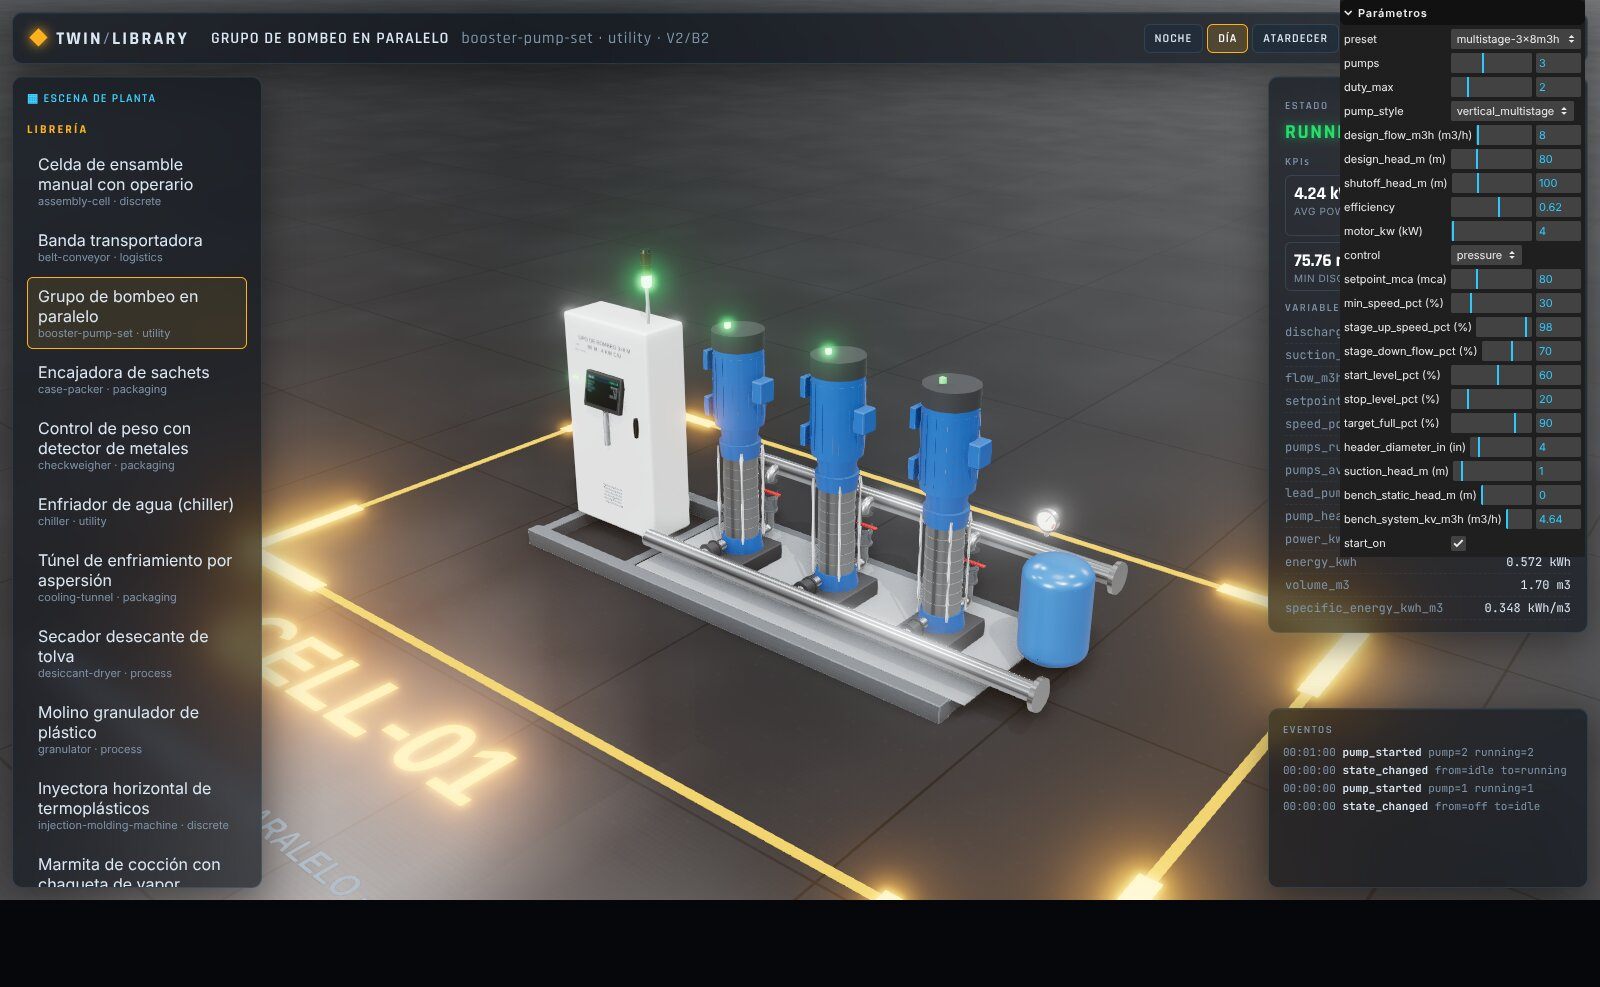
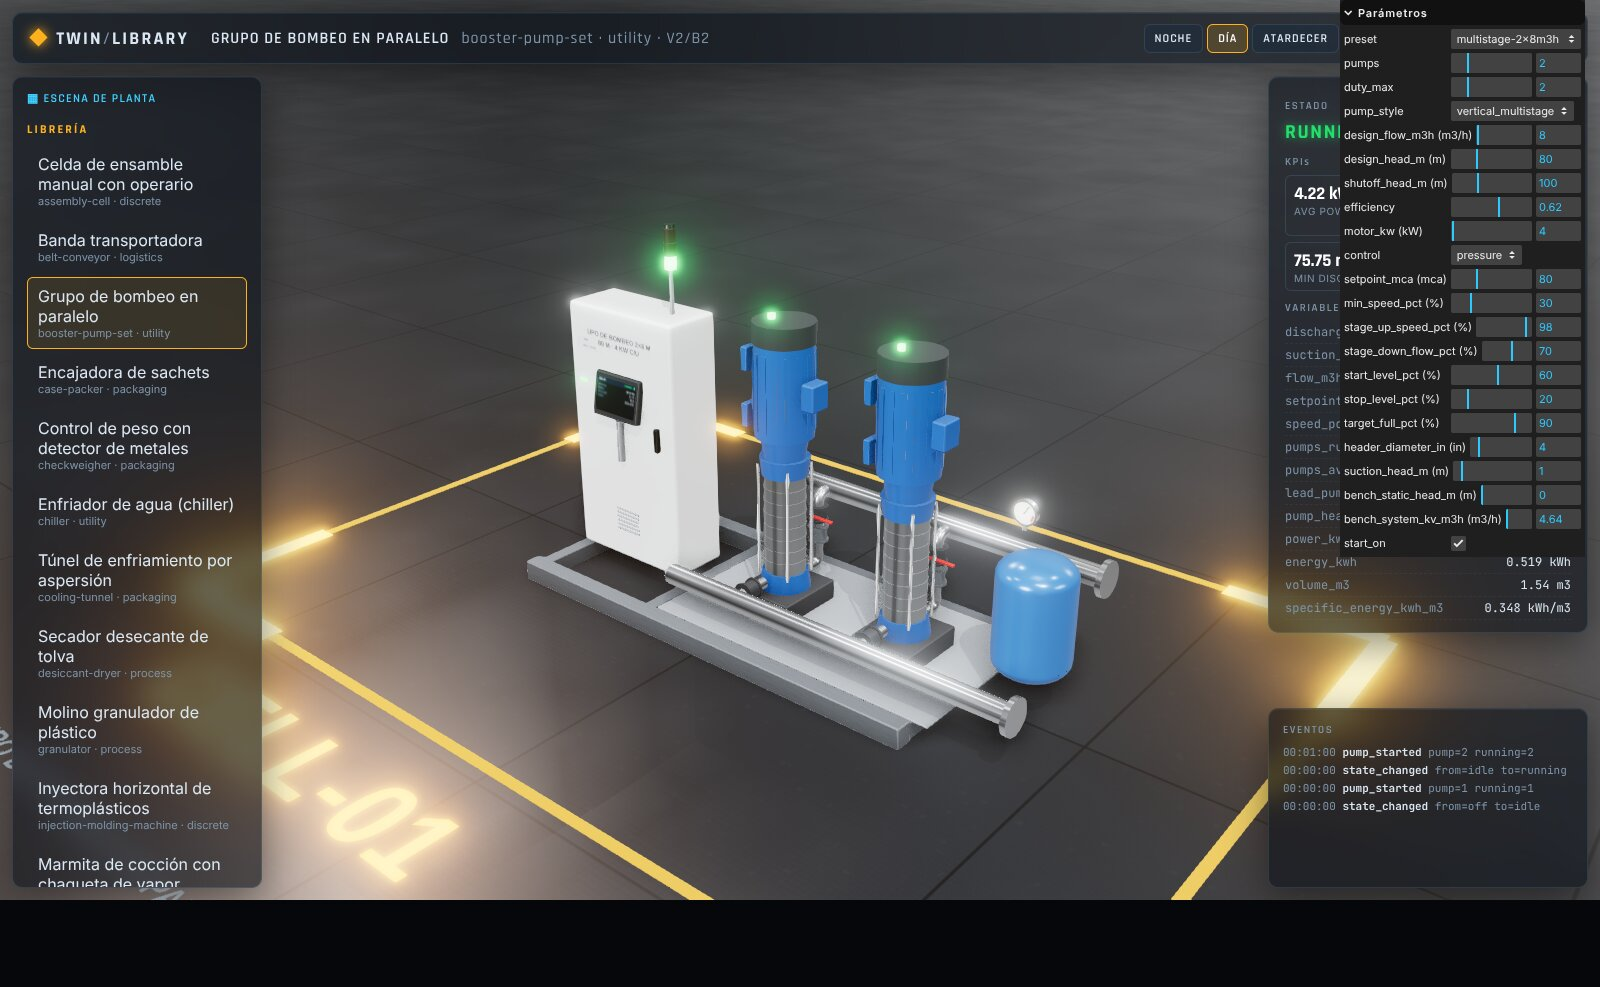
Acueducto: el bombeo principal queda con 2 bombas de trabajo
El autor fijó 2 bombas (sin reserva) y el parámetro de 1 a 6. El escenario
pump-trip ahora muestra la caída de presión con una sola bomba y se agrega
pump-trip-recovery. Diseño (S4), ficha, D24, bitácora, histórico y capturas.

Claude-Session: https://claude.ai/code/session_01DGhyCCTRW3XMFERzM5Zm8B

diff --git a/docs/water-network-plant.md b/docs/water-network-plant.md
@@ -49,7 +49,7 @@ flowchart LR
 | `tank-recirc-01..02` | Tanques de recirculación, 1.000 L c/u | `vessel` (existe; preset nuevo `water-1000l`) | 2 |
 | `pumpset-recirc-01` | 2 bombas centrífugas normales (1 trabaja, 1 reserva), 15 m³/h a 10 mca c/u, arranque por nivel | `booster-pump-set` (preset `recirculation-2x15m3h`) | 1 |
 | `tank-supply-01..02` | Tanques de bombeo, 1.000 L c/u, comunicados | `vessel` (preset `water-1000l`) | 2 |
-| `pumpset-main-01` | 3 bombas multietapa verticales en paralelo (2 trabajan, 1 reserva), 8 m³/h a 80 m c/u, variador, antirretorno por bomba, colector de 4" | `booster-pump-set` (preset `multistage-3x8m3h-80m`) | 1 |
+| `pumpset-main-01` | 2 bombas multietapa verticales en paralelo (las dos trabajan, sin reserva), 8 m³/h a 80 m c/u, variador, antirretorno por bomba, colector de 4" | `booster-pump-set` (preset `multistage-2x8m3h-80m`) | 1 |
 | `prs-01` | Estación reguladora: bifurcación con válvulas de corte manuales, rama A con PRV automática, rama B con PRV manual de piloto, unión | `pressure-reducing-station` | 1 |
 | `grid-01..04` | Rejilla de un nivel: cabezal y ramales de 2", 16 válvulas de consumo (4 × 4), 2 válvulas de fuga (rojas), canaleta | `distribution-grid` | 4 |
 | `valve-between-12/23/34` | Válvula de regulación entre niveles, apertura fija manual (automatizable después) | `regulating-valve` | 3 |
@@ -109,7 +109,7 @@ De noche (válvulas de consumo al 30 %):
 
 Con fugas tipo orificio (exponente 0,5) la PRV automática ahorra ≈ 5 % de fugas de noche; con un exponente de 1,15, típico de redes de PVC con fisuras, el ahorro sube a ≈ 15 %. El exponente queda como parámetro de las válvulas de fuga para mostrar ese efecto.
 
-Bombas: dos multietapa de 8 m³/h a 80 m cubren el día (13 m³/h) con una tercera de reserva. Recirculación: la elevación desde los tanques del piso 2 a los del piso 3 es ≈ 4,5 m; 10 mca con pérdidas, 15 m³/h para reponer más rápido de lo que se consume. Volumen: 2 m³ en tanques de bombeo dan ≈ 9 min de autonomía a caudal de día.
+Bombas: dos multietapa de 8 m³/h a 80 m cubren el día (13 m³/h), sin reserva (el autor fijó 2 bombas). Recirculación: la elevación desde los tanques del piso 2 a los del piso 3 es ≈ 4,5 m; 10 mca con pérdidas, 15 m³/h para reponer más rápido de lo que se consume. Volumen: 2 m³ en tanques de bombeo dan ≈ 9 min de autonomía a caudal de día.
 
 ## 5. Modelo de simulación
 
@@ -176,7 +176,7 @@ Las expectativas se calculan a mano con la sección 4 antes de escribir el escen
 | `nominal` | Día: todas las casas abiertas, rama automática. 80 mca en bombas, 20 mca en la válvula crítica, 13 m³/h |
 | `night-pressure` | Demanda de 24 h (curva diaria); la rama automática baja la salida de la PRV de noche y las fugas bajan |
 | `manual-branch` | El operador pasa a la rama manual: la presión crítica sube de noche y las fugas aumentan; comparación de KPIs |
-| `pump-trip` | Falla de una bomba principal: entra la de reserva; el antirretorno evita el retroceso |
+| `pump-trip` | Falla de una bomba principal: sin reserva, la otra sola entrega ≈ 11,3 m³/h a ≈ 60 mca, salta la alarma de baja presión y el antirretorno evita el retroceso por la bomba parada |
 | `leak-burst` | Una válvula de fuga del nivel 2 se abre del todo (fraude o rotura): sube el agua no contabilizada, baja la presión del nivel y la PRV automática compensa |
 | `between-valve` | Se cierra a la mitad la válvula entre niveles 2 y 3: los niveles de arriba pierden presión aunque la estación esté bien |
 
@@ -208,7 +208,7 @@ La fase 1 es un modelo 1D (red). Para acoplar después CFD (Navier-Stokes) sin r
 | S1 | Rejilla de 4 × 4 válvulas de consumo y 2 de fuga por nivel, 2,0 × 2,0 m | Número de casas por comuna y tamaño de la escena |
 | S2 | Pisos de 3,0 m; nivel 1 de la rejilla a la altura de la descarga de las bombas | Presiones estáticas de cada nivel |
 | S3 | Kv de las válvulas (sección 4) | Caudal total y tamaño de las bombas |
-| S4 | 3 bombas principales (2 + 1 reserva) y 2 de recirculación (1 + 1) | Lógica de alternancia y escenario de falla |
+| S4 | 2 bombas principales, las dos de trabajo (el autor corrigió el supuesto de 2 + 1 el 2026-10-17) y 2 de recirculación (1 + 1) | Lógica de alternancia y escenario de falla |
 | S5 | La PRV automática mide la presión en la válvula crítica por telemetría | Es lo que permite el objetivo de 20 mca en el punto crítico |
 | S6 | Bombas genéricas, sin marca | Regla del repositorio |
 | S7 | Tanques de 1.000 L | Autonomía y dinámica de niveles |

diff --git a/docs/registro/decisiones/decisiones.md b/docs/registro/decisiones/decisiones.md
@@ -76,4 +76,4 @@ El autor pidió el área de empaque manual de la planta de salsas y dejó a crit
 Para el acueducto se escribió el método del gradiente global en el runtime en vez de agregar dependencias (numpy, scipy o una librería de EPANET): el runtime solo depende de `pyyaml` y `jsonschema`, la red de la demo tiene unos 160 nodos y se resuelve en milisegundos, y el código queda a la vista para el registro de software. La PRV sigue los estados de EPANET (activa, abierta, cerrada). Las pruebas usan tolerancias relativas (regla D07).
 
 ## D24 · Equipos del acueducto: banco hidráulico propio y funciones para el motor · 2026-10-17 05:00
-Primera parte de los tipos del acueducto (grupo de bombeo y válvula entre niveles). Decisiones: (1) cada tipo, fuera de una planta, arma su propio «banco» con `HydraulicNetwork` (la red servida es un Kv que descarga a la atmósfera) para que la galería y los escenarios funcionen solos; para la planta cada tipo exporta `add_pump_set` y `add_regulating_valve`, que el motor usará en la entrega 4 sobre una sola red del edificio. (2) Un solo tipo `booster-pump-set` sirve para las bombas principales (multietapa, control por presión) y las de recirculación (succión axial, control por nivel), con presets distintos. (3) La salida de bombas se decide por caudal (cabe en una bomba menos con 70 % de margen durante 30 s) y no por velocidad, porque a presión constante la velocidad casi no baja con la demanda. (4) La válvula entre niveles es un tipo genérico `regulating-valve` con volante o actuador, para poder automatizarla después como pidió el autor. (5) El enlace de puertos todavía no tiene una magnitud hidráulica; los puertos se declaran como material de agua. Tolerancias de los escenarios en % (regla D07).
+Primera parte de los tipos del acueducto (grupo de bombeo y válvula entre niveles). Decisiones: (1) cada tipo, fuera de una planta, arma su propio «banco» con `HydraulicNetwork` (la red servida es un Kv que descarga a la atmósfera) para que la galería y los escenarios funcionen solos; para la planta cada tipo exporta `add_pump_set` y `add_regulating_valve`, que el motor usará en la entrega 4 sobre una sola red del edificio. (2) Un solo tipo `booster-pump-set` sirve para las bombas principales (multietapa, control por presión) y las de recirculación (succión axial, control por nivel), con presets distintos. (3) La salida de bombas se decide por caudal (cabe en una bomba menos con 70 % de margen durante 30 s) y no por velocidad, porque a presión constante la velocidad casi no baja con la demanda. (4) La válvula entre niveles es un tipo genérico `regulating-valve` con volante o actuador, para poder automatizarla después como pidió el autor. (5) El enlace de puertos todavía no tiene una magnitud hidráulica; los puertos se declaran como material de agua. (6) El autor corrigió el supuesto S4: el bombeo principal tiene solo 2 bombas, las dos de trabajo («Solo 2 pero ok de 1a6»); el parámetro sigue de 1 a 6. Sin reserva, si se dispara una bomba la otra sola entrega ≈ 11,3 m³/h a ≈ 60 mca y salta la alarma de baja presión (escenario `pump-trip`). Tolerancias de los escenarios en % (regla D07).

diff --git a/docs/registro/bitacora/bitacora.md b/docs/registro/bitacora/bitacora.md
@@ -39,7 +39,7 @@ Horas en UTC (Colombia = UTC−5). Más reciente arriba. PR = pull request en `A
 - **Fecha/hora (UTC):** 2026-10-17 04:57 a 05:25.
 - **Fase del plan:** [[plan-del-proyecto]], acueducto a escala, entrega 3 de 5 (primera parte).
 - **Solicitado por:** Carlos Andrés Quiceño respondió «Si» (04:57) a la propuesta de seguir con los equipos de la librería del acueducto (bombas, estación reguladora y rejillas).
-- **Qué se hizo:** dos tipos nuevos en la librería. `booster-pump-set`: bombas iguales en paralelo con antirretorno sobre la red hidráulica del PR #14, variador con PID de presión, entrada y salida de bombas por velocidad y caudal, alternancia de la líder, reserva que entra en el mismo paso si se dispara una bomba, modo por nivel para la recirculación, energía específica; presets `multistage-3x8m3h-80m` (2 + 1 a 80 mca) y `recirculation-2x15m3h` (1 + 1 por nivel). `regulating-valve`: Kv con característica lineal o de igual porcentaje, volante o actuador con tiempo de recorrido, PID opcional de presión aguas abajo, actuador trabado y fuga por el asiento; presets `between-levels-2in` y `actuated-2in-pressure`. Preset `water-1000l` de `vessel` (S7). Cada tipo trae una función `add_*` para que el motor de planta lo agregue a la red del edificio en la entrega 4. La estación reguladora y la rejilla van en el siguiente PR.
+- **Qué se hizo:** dos tipos nuevos en la librería. `booster-pump-set`: bombas iguales en paralelo con antirretorno sobre la red hidráulica del PR #14, variador con PID de presión, entrada y salida de bombas por velocidad y caudal, alternancia de la líder, reserva que entra en el mismo paso si se dispara una bomba, modo por nivel para la recirculación, energía específica; presets `multistage-2x8m3h-80m` (2 bombas de trabajo a 80 mca, sin reserva, como corrigió el autor: «Solo 2 pero ok de 1a6», 05:26) y `recirculation-2x15m3h` (1 + 1 por nivel). `regulating-valve`: Kv con característica lineal o de igual porcentaje, volante o actuador con tiempo de recorrido, PID opcional de presión aguas abajo, actuador trabado y fuga por el asiento; presets `between-levels-2in` y `actuated-2in-pressure`. Preset `water-1000l` de `vessel` (S7). Cada tipo trae una función `add_*` para que el motor de planta lo agregue a la red del edificio en la entrega 4. La estación reguladora y la rejilla van en el siguiente PR.
 - **Commits:** ver el PR #22.
 - **Verificación:** escenarios con valores calculados a mano (por ejemplo, 13 m³/h a 80 mca con 2 bombas al 96,2 %, 4,52 kW; 21 mca aguas abajo con apertura 50,9 %), `uv run twin-lib validate`, `uv run pytest` (168 pruebas), `uv run ruff check .`, `pnpm -r typecheck` y `pnpm -r test`. Capturas de la galería: [[acueducto-grupo-de-bombeo.jpg]], [[acueducto-bombas-de-recirculacion.jpg]], [[acueducto-valvula-entre-niveles.jpg]], [[acueducto-tanque-1000l.jpg]]; simulando por la API: [[acueducto-grupo-de-bombeo-simulando.jpg]] y [[acueducto-valvula-actuada-simulando.jpg]].
 - **Decisiones:** [[decisiones]] D24.

diff --git a/docs/registro/historico/proyecto/hilo-acueducto-a-escala.md b/docs/registro/historico/proyecto/hilo-acueducto-a-escala.md
@@ -71,3 +71,27 @@ Trabajo del hilo, resumido:
 - Un escenario de la válvula falló porque el valor esperado de la apertura estaba mal calculado a mano; se corrigió la cuenta (49,9–51,9 %), no el modelo.
 - Revisó las capturas de la galería; corrigió los soportes de la válvula, que quedaban medio enterrados, y el actuador, que se veía hundido en el bonete. Probó ambos tipos simulando por la API.
 - Actualizó la bitácora, la decisión D24, el plan, el roadmap, el diseño y este histórico, y abrió el PR #22.
+
+### 👤 Carlos Andrés Quiceño · 05:25 UTC (comentario en el PR #22)
+
+El tanque pulmón de las bombas Grundfos está bien, pero no se si deberías incluir el tanque de almacenamiento en este mismo sistema o lo vas a poner aparte ?
+
+### 🤖 Claude (hilo) · 05:25 UTC (respuesta en el PR #22 y aviso en el hilo)
+
+Lo pone aparte: el tanque de almacenamiento es su propio equipo (preset `water-1000l` de `vessel`), para seleccionarlo y ver su nivel por separado y reutilizarlo en los pisos 2 y 3; en la planta el motor lo conectará con la succión de las bombas y con el arranque por nivel de la recirculación. El tanque azul del grupo es el hidroacumulador de la descarga, solo dibujado. Ofreció cambiarlo si el autor lo prefiere dentro del grupo.
+
+### 👤 Carlos Andrés Quiceño · 05:25:47 UTC
+
+Por qué 3 bombas?
+
+### 🤖 Claude (hilo) · 05:26 UTC
+
+Explicó el supuesto S4: 2 bombas de trabajo porque una de 8 m³/h solo da ≈ 8,2 m³/h a 80 mca y el día pide 13 m³/h, y 1 de reserva para que un disparo no tumbe la presión y para alternar el desgaste; el número es un parámetro de 1 a 6.
+
+### 👤 Carlos Andrés Quiceño · 05:26:20 UTC
+
+Solo 2 pero ok de 1a6
+
+### 🤖 Claude (hilo) · 05:26–05:40 UTC
+
+Cambió el preset principal a `multistage-2x8m3h-80m` (2 bombas de trabajo, sin reserva), rehízo el escenario de disparo de bomba (sin reserva la otra sola entrega 11,3 m³/h a 60,4 mca y salta la alarma de baja presión) y agregó `pump-trip-recovery`. Actualizó el diseño (S4), la ficha, la decisión D24, la bitácora y las capturas.

diff --git a/equipment-library/booster-pump-set/README.md b/equipment-library/booster-pump-set/README.md
@@ -6,7 +6,7 @@ Grupo de bombeo en paralelo sobre un bastidor: 1 a 6 bombas iguales (multietapa 
 - **Hidráulica:** cada bomba es una curva H = s²·H0 − r·Q² en paralelo con su antirretorno, resuelta con `HydraulicNetwork` (gradiente global). El caudal y la presión salen de la red, no de una fórmula fija.
 - **Control por presión** (`control: pressure`): un PID ajusta la velocidad común del variador para sostener `setpoint_mca` en la descarga. Entra otra bomba cuando la velocidad pasa de `stage_up_speed_pct` 15 s y la presión no alcanza; sale una cuando el caudal cabe en una bomba menos con margen (`stage_down_flow_pct`) durante 30 s. Al menos 60 s entre cambios.
 - **Control por nivel** (`control: level`): arranca con el tanque de origen sobre `start_level_pct` y el destino bajo `target_full_pct`; para con el origen bajo `stop_level_pct` o el destino lleno.
-- **Alternancia:** la bomba líder rota en cada arranque desde cero; si se dispara una bomba entra la de reserva en el mismo paso.
+- **Alternancia:** la bomba líder rota en cada arranque desde cero; si se dispara una bomba entra la de reserva en el mismo paso (cuando el preset tiene reserva).
 - **Energía:** potencia hidráulica ÷ eficiencia, energía acumulada y energía específica (kWh/m³).
 
 ## Entradas del entorno
@@ -16,7 +16,7 @@ Grupo de bombeo en paralelo sobre un bastidor: 1 a 6 bombas iguales (multietapa 
 `add_pump_set(net, prefix, suction, discharge, p)` agrega las bombas y antirretornos a una red ya armada; la planta del acueducto la usará en vez del banco.
 
 ## Presets
-`multistage-3x8m3h-80m` (bombeo principal, 2 + 1 a 80 mca), `recirculation-2x15m3h` (recirculación por nivel, 1 + 1).
+`multistage-2x8m3h-80m` (bombeo principal, 2 bombas de trabajo a 80 mca, sin reserva), `recirculation-2x15m3h` (recirculación por nivel, 1 + 1).
 
 ## Fallas
 `pump_trip` (se dispara la líder, entra la reserva), `vfd_fault` (paran todas), `worn_impeller` (la curva baja 10 %).

diff --git a/equipment-library/booster-pump-set/FICHA.md b/equipment-library/booster-pump-set/FICHA.md
@@ -7,7 +7,7 @@
 
 | Dato | Valor | Origen |
 |---|---|---|
-| Bombas principales | 3 multietapa verticales en paralelo, 2 trabajan y 1 de reserva | user (paralelo), assumed (número, S4) |
+| Bombas principales | 2 multietapa verticales en paralelo, las dos de trabajo, sin reserva | user (paralelo y número, 2026-10-17 05:26) |
 | Presión de entrega | 80 mca en la descarga | user |
 | Caudal de diseño | 8 m³/h por bomba a 80 m; 13 m³/h de demanda de día | assumed (sección 4 del diseño) |
 | Altura a caudal cero | 100 m | assumed |
